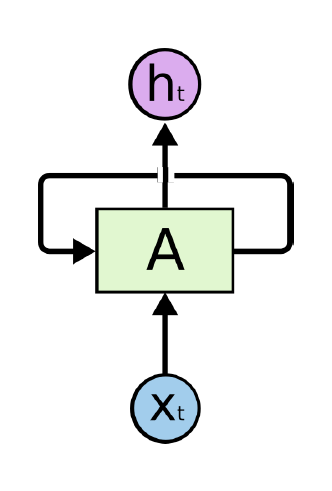
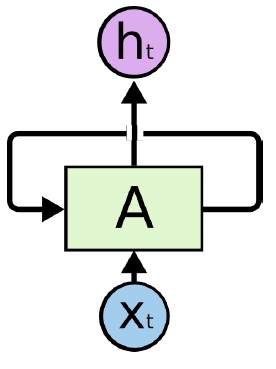
fixes

Changed region(s): [[0.0, 0.0, 0.9565, 0.9539]]

diff --git a/questions/done.tex b/questions/done.tex
@@ -274,13 +274,14 @@ Alternatively scale the learning rate every 5-20 epochs with a factor ($\nicefra
 \subsection{Describe the main purpose of RNNs and give an example application.}
 RNNs are suited for temporal machine learning task, where not a single instance has to be taken into account, but a number of instances where the order is importent. One example would be text generation, where the task is to create a single character or word, but the previous characters/words are very important for the next item. Video analysis, e.g. classification would be another example, where the isn't just a single image, but a whole video stream of several frames.
 \subsection{Draw and explain a sketch illustrating the overall  architecture of such networks.}
-\begin{minipage}{0.4\textwidth}
-\includegraphics[width=\textwidth]{./img/rnn.png}
+\begin{minipage}{0.3\textwidth}
+\hspace*{1cm}\includegraphics[width=0.6\textwidth]{./img/rnn.png}
 \end{minipage}
-The main feature of RNNS are loops, that information can be passed from on temporal step to the next. Thus, the next state of A does not only depend on input $x_t$, for the step t, but also on the previous state of $A_{t-1}$. $h_t$ is the output of the network at step t.
+\begin{minipage}{0.7\textwidth}
+The main feature of RNNS are loops sucht that information can be passed from one temporal step to the next. Thus, the next state of A does not only depend on input $x_t$, for the step $t$, but also on the previous state of $A_{t-1}$. $h_t$ is the output of the network at step $t$.
+\end{minipage}
 \subsection{What is the main limitation of traditional RNNs (as opposed to LSTMs)?}
-A problem arises, when the important information is not only one or at least a few (defined) steps before t, but when it could be from an arbitrarly far away step. In the given example
-"I grew up in Italy ... I speak fluent\textit{italian}" the important word to inference the language is Italy.  The larger the potential gap, the more complicated the problem becomes. 
+A problem arises, when the important information is not only one or at least a few (defined) steps before t, but when it could be from an arbitrarily far away step. In the given example ``I grew up in Italy ... I speak fluent \textit{italian}'' the important word to inference the language is Italy.  The larger the potential gap, the more complicated the problem becomes. 
 %
 \section{LSTMs}
 \subsection{What is the main advantage of LSTMs over traditional RNNs?}
@@ -292,10 +293,10 @@ LSTMs are designed for rememembering informations for long periods of time. So t
 The Cell state C, the upper line, contains the core information. It is controlled by several
 sigmoid gates. 
 \subsection{List and explain the purpose of the different LSTM gates.}
-The left gate is the forgert layer, which takes information from the prevouis output and the current input to get a multiplicative value between 0 and 1 for each information in C.
+The left gate is the forget layer, which takes information from the previous output and the current input to get a multiplicative value between 0 and 1 for each information in C.
 
 The middle gate is the input layer. It decides which values to update and create new candidate values for C.
 
-The right gate is the output gate, which takes the updated and filtered state C, the previuous output and the input to create a new output.
+The right gate is the output gate, which takes the updated and filtered state C, the previous output and the input to create a new output.
 
 \addtocounter{section}{-1}\section{}\label{sec:done}
